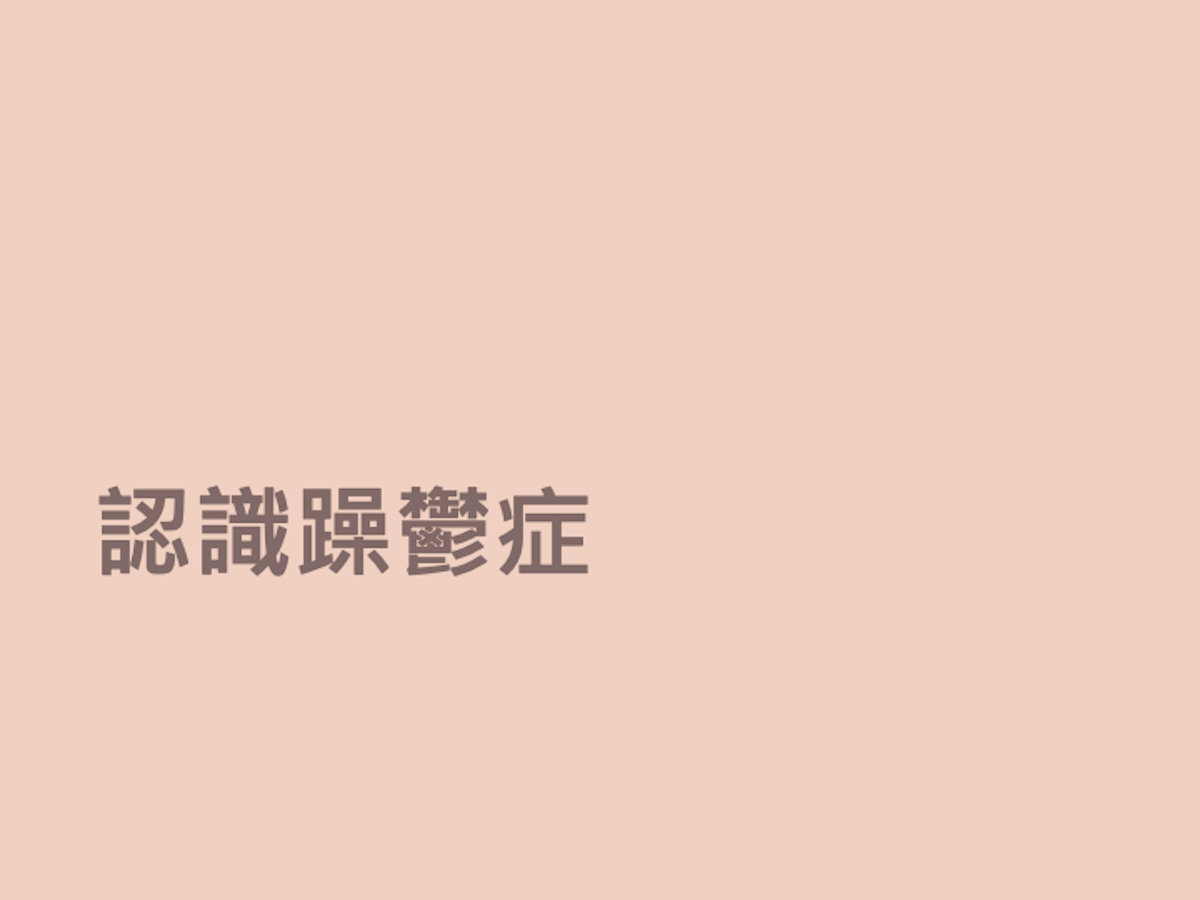
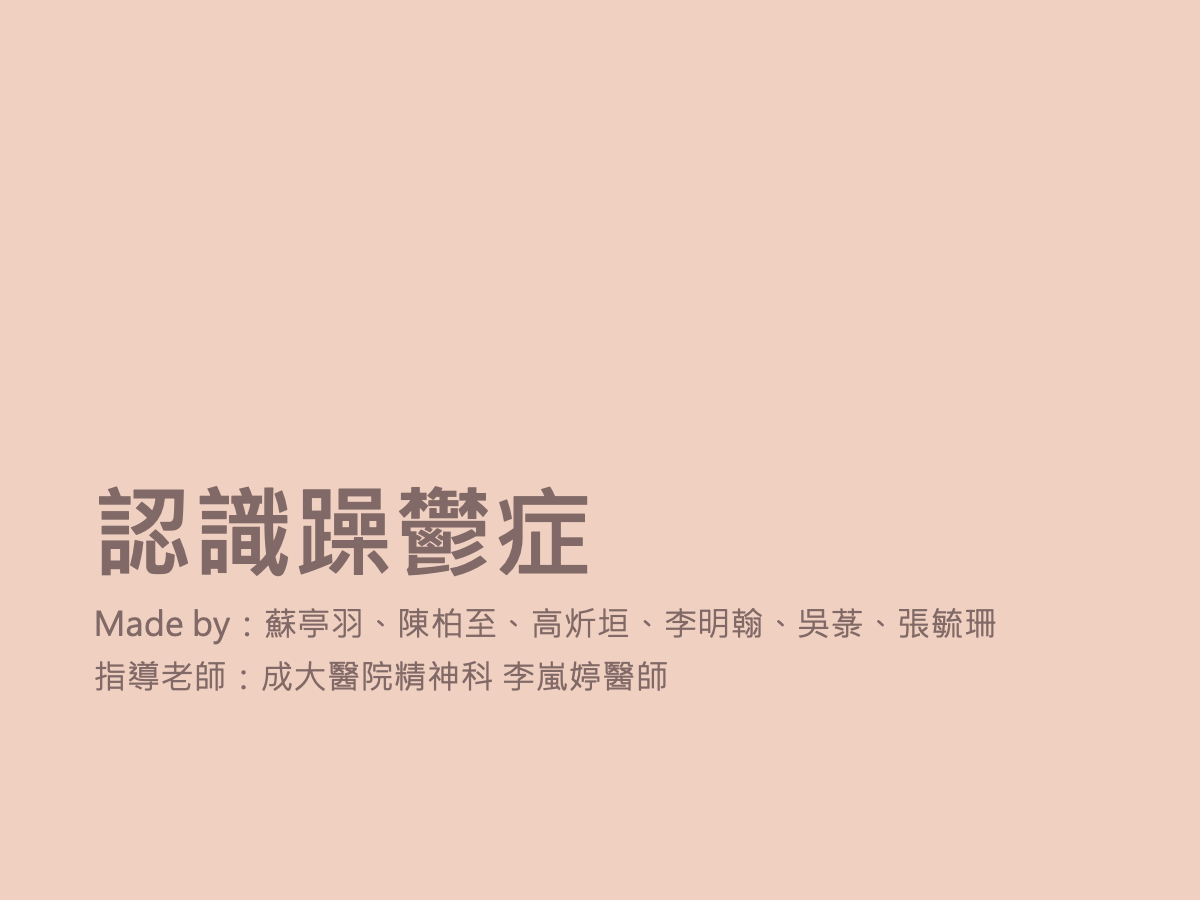
加入指導老師

diff --git a/index.html b/index.html
@@ -88,8 +88,8 @@
                     <hr class="visible-xs">
                 </section>
                 <section id="email address" class="col-sm-6">
-                    <span>Email Address:</span><br>
-                    yugi0604@gmail.com
+                    <span>指導老師</span><br>
+                    成大醫院 李嵐婷 醫師
                     <hr class="visible-xs">
                 </section>
             </div>
